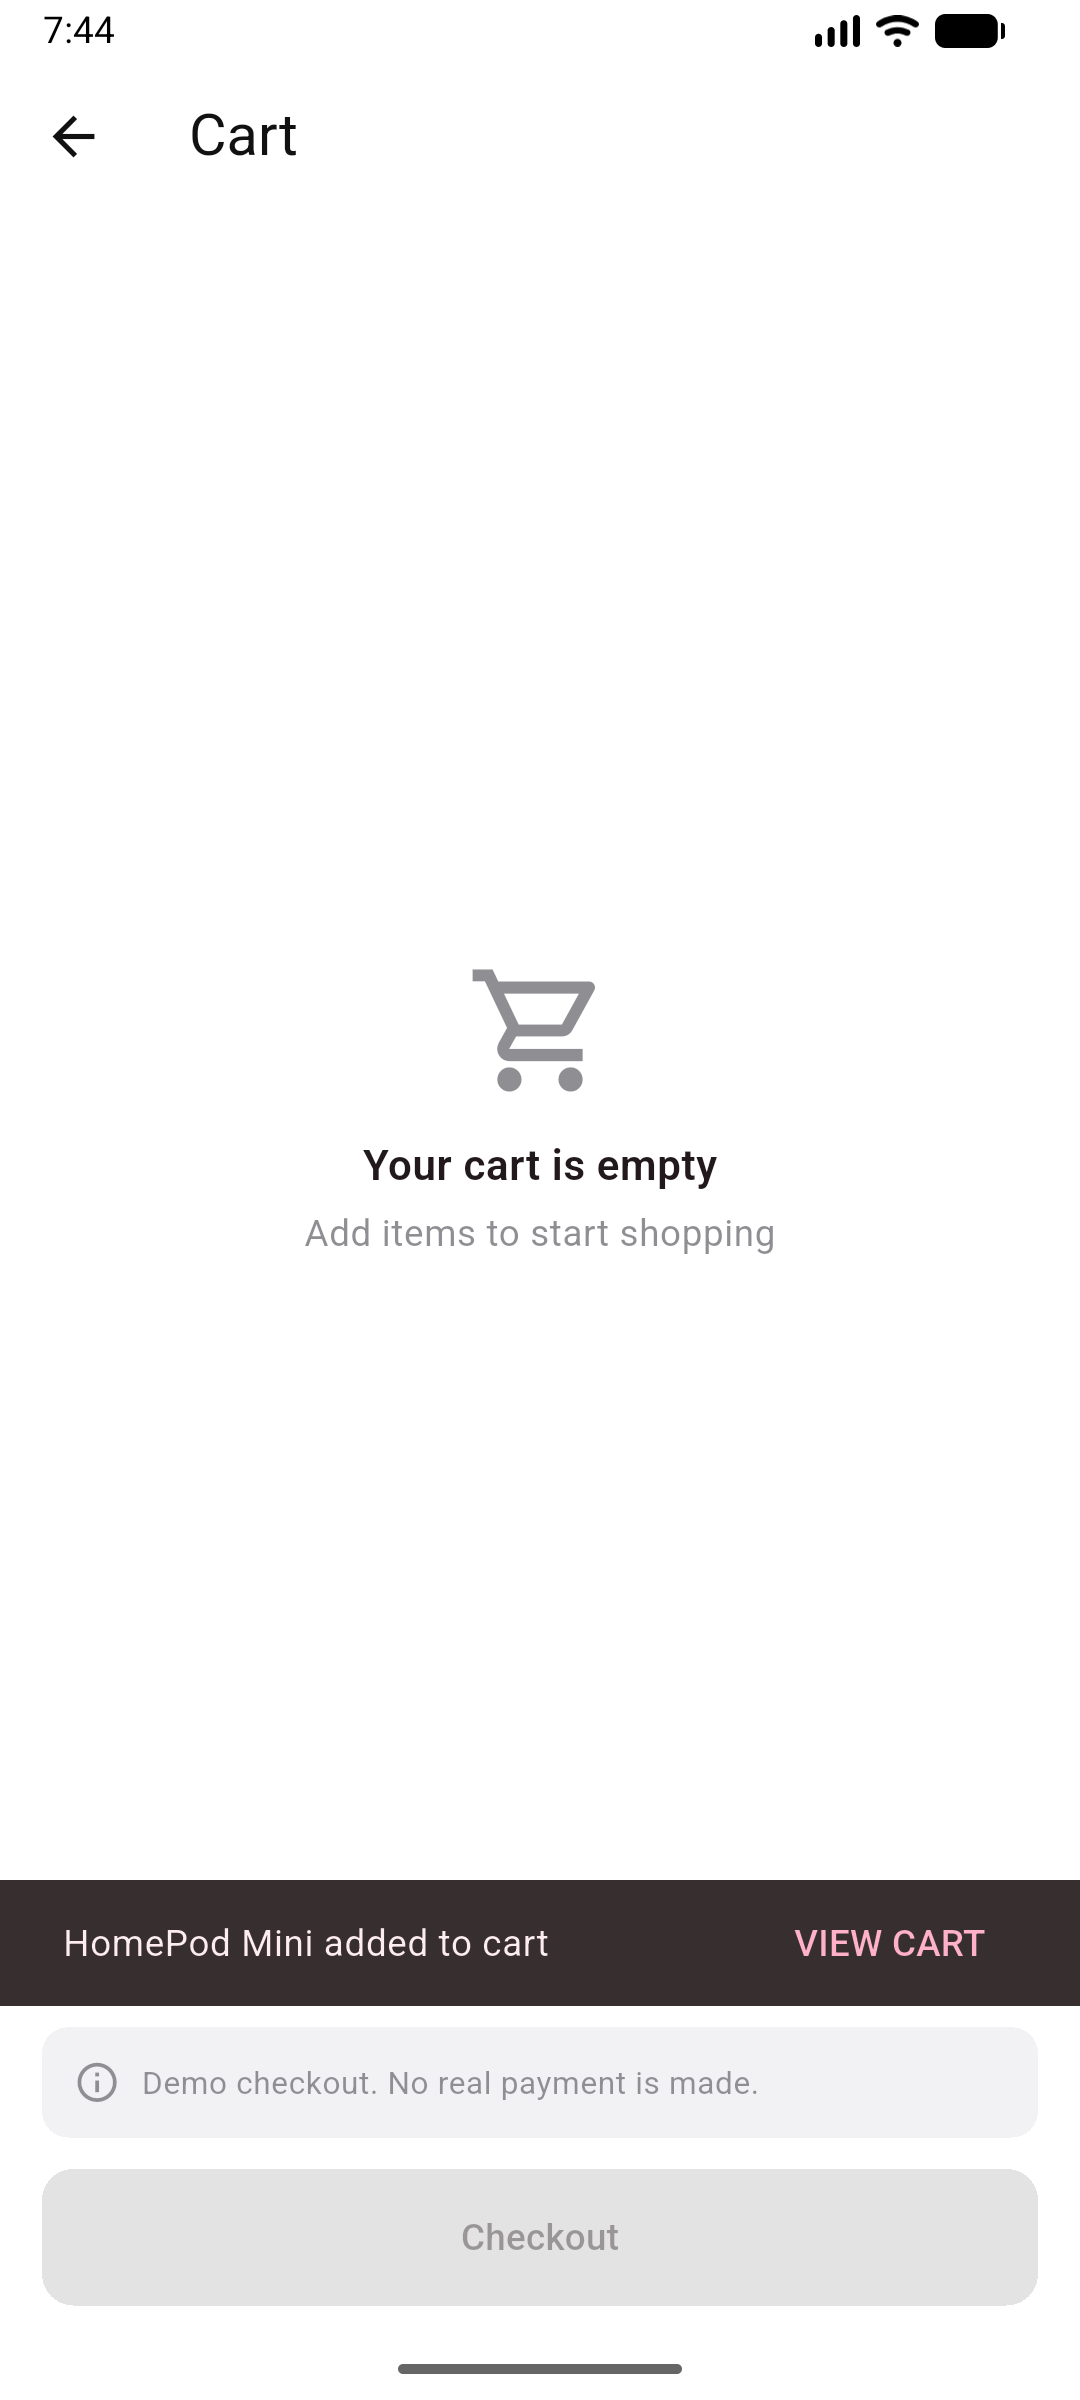
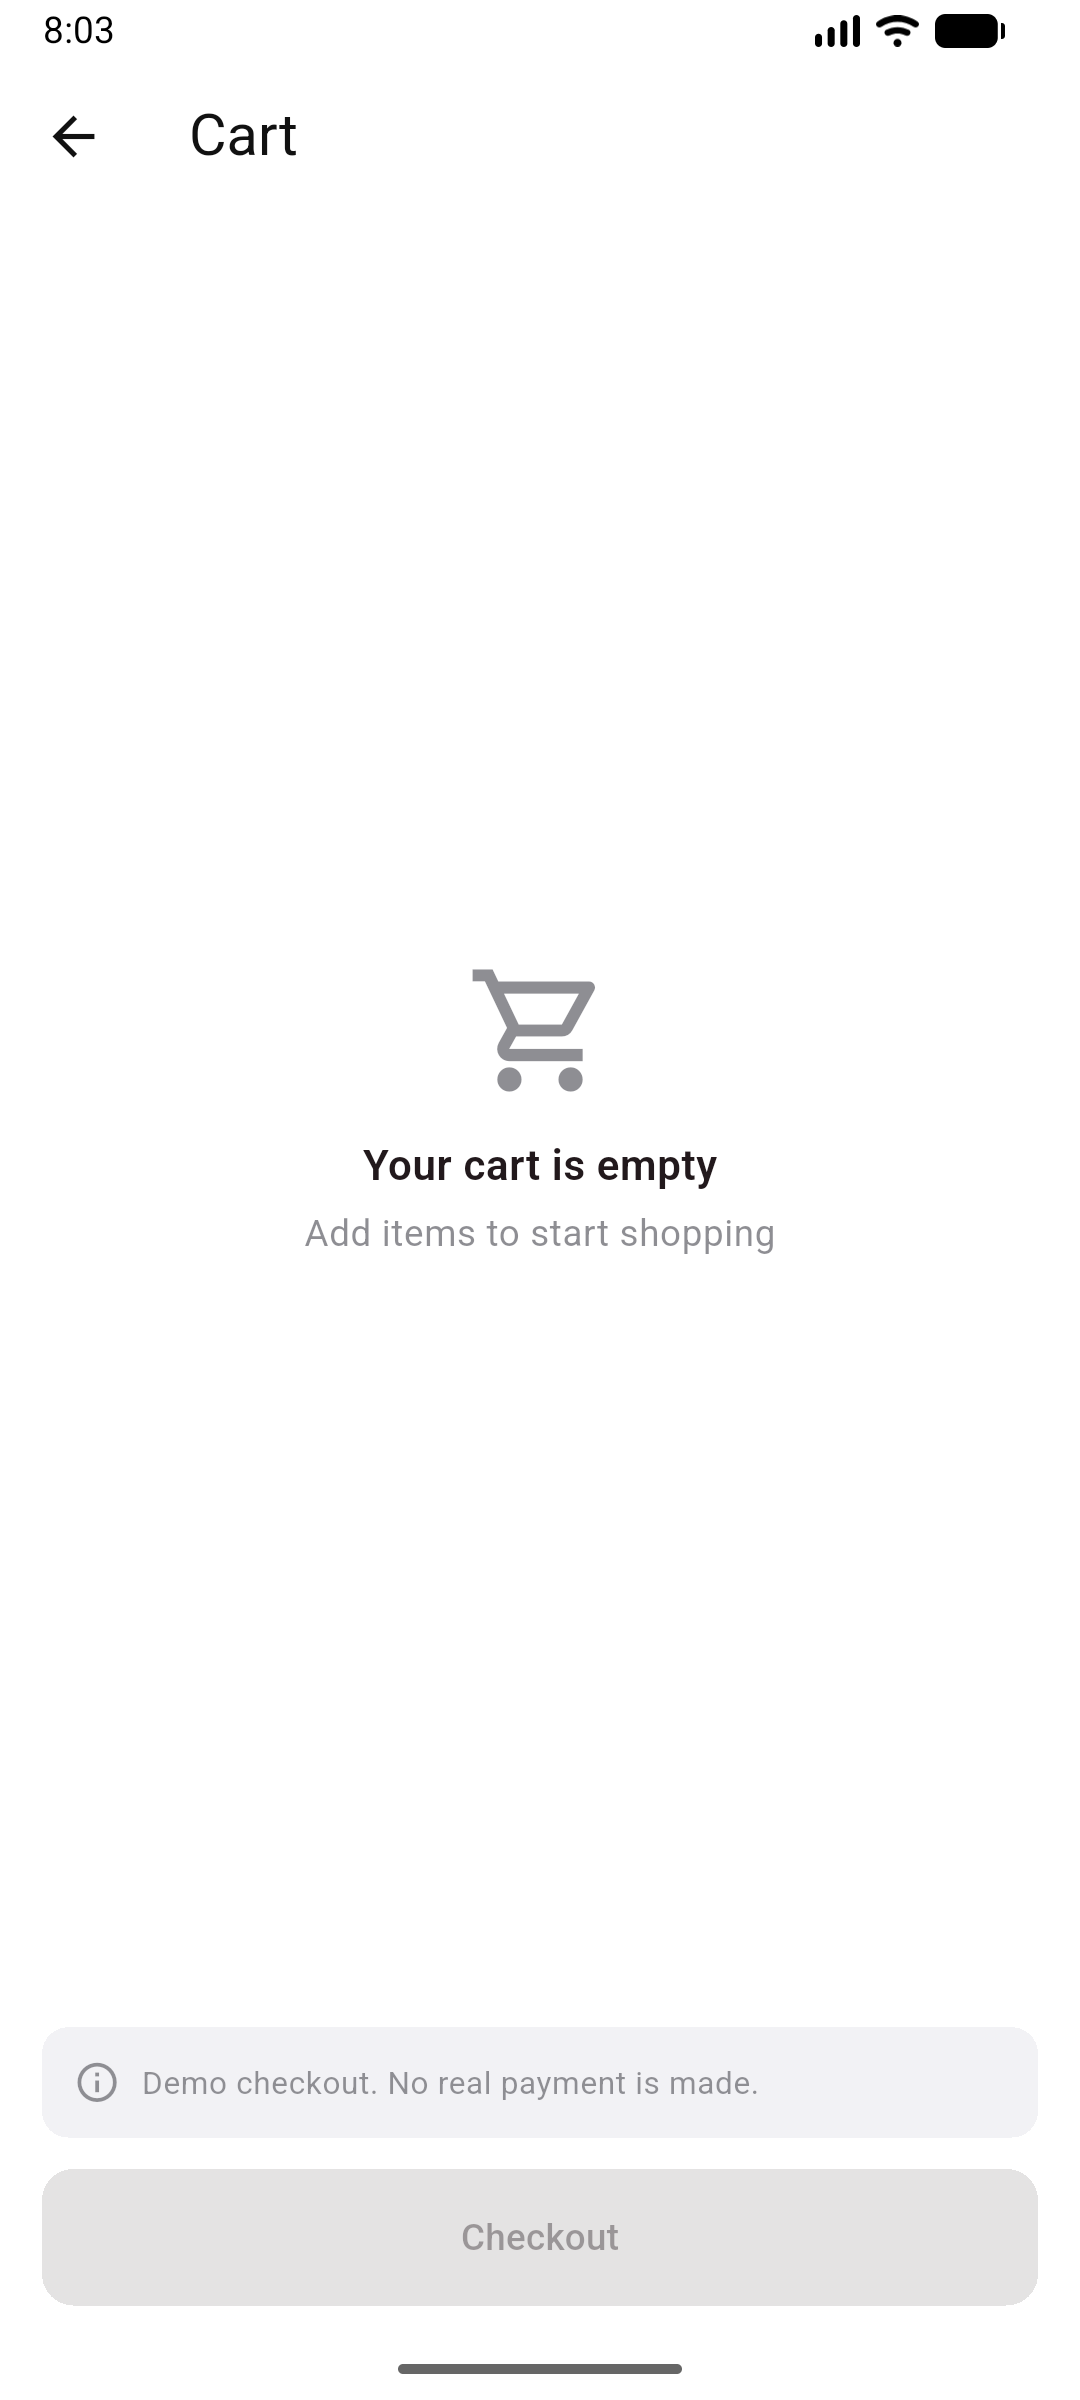
SnackBar duzeltildi, ekran goruntuleri yenilendi

Changed region(s): [[0.0, 0.7812, 1.0, 0.8438], [0.0306, 0.0, 0.0917, 0.0312]]

diff --git a/lib/screens/product_detail_screen.dart b/lib/screens/product_detail_screen.dart
@@ -1,7 +1,6 @@
 import 'package:flutter/material.dart';
 
 import '../models/product.dart';
-import '../routes/app_routes.dart';
 import '../services/cart_service.dart';
 import '../theme/app_theme.dart';
 import '../widgets/cart_badge_button.dart';
@@ -29,10 +28,6 @@ class _ProductDetailScreenState extends State<ProductDetailScreen> {
         SnackBar(
           content: Text('${product.name} added to cart'),
           duration: const Duration(seconds: 2),
-          action: SnackBarAction(
-            label: 'VIEW CART',
-            onPressed: () => Navigator.pushNamed(context, AppRoutes.cart),
-          ),
         ),
       );
   }
